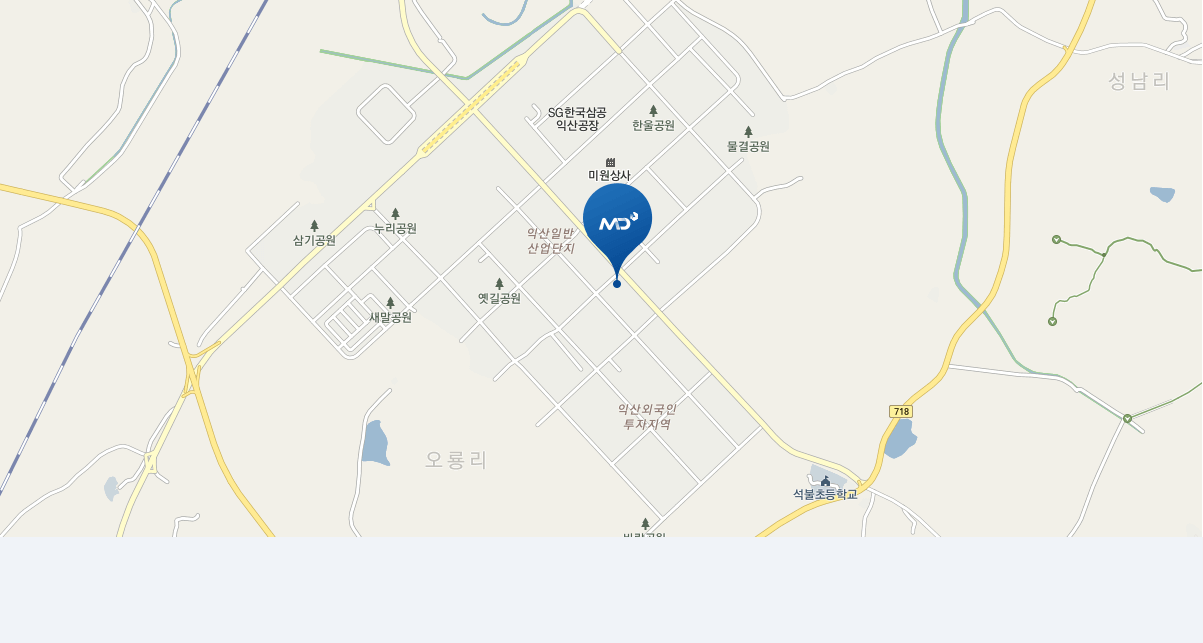
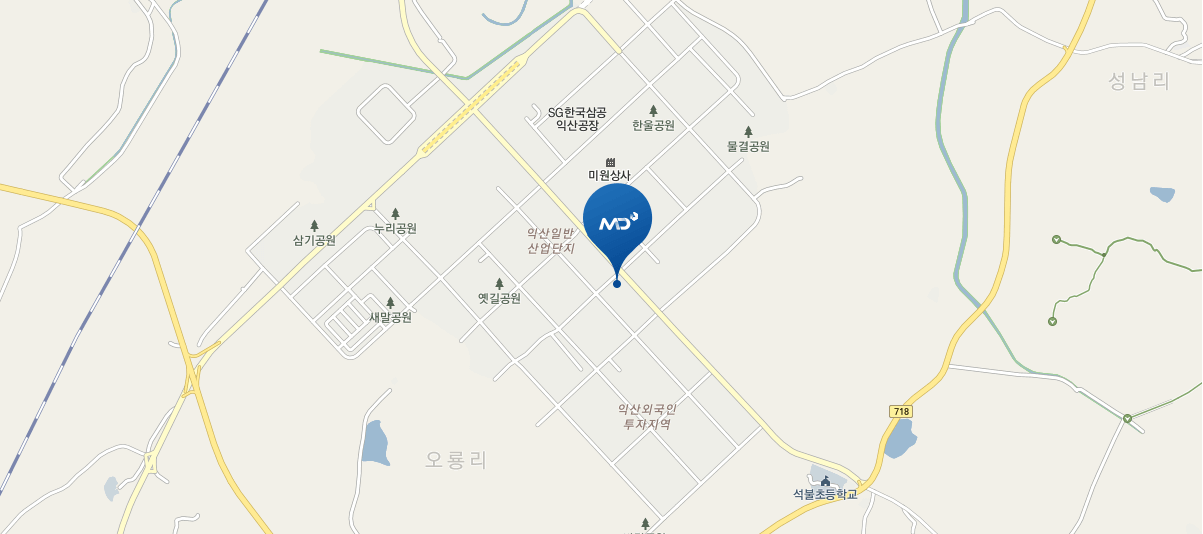
Sina: final update #3

diff --git a/Location.html b/Location.html
@@ -71,22 +71,19 @@
           <div class="col-12">
             <!-- HQ Tab -->
             <div class="tabController" id="tab1">
-              <div class="col-12 map-section--map">
-                <div class="mapouter"><div class="gmap_canvas">
-                  <!--<iframe width="100%" height="450" id="gmap_canvas2" src="https://www.google.com/maps/embed?pb=!1m18!1m12!1m3!1d6468.167730832458!2d127.1692497276739!3d35.84694706726395!2m3!1f0!2f0!3f0!3m2!1i1024!2i768!4f13.1!3m3!1m2!1s0x3570225484e63a03%3A0x83ebc082671e7064!2sWonsanjeong-gil%2C%20Sanjeong-dong%2C%20Deokjin-gu%2C%20Jeonju%2C%20Jeollabuk-do%2C%20South%20Korea!5e0!3m2!1sen!2sil!4v1604753686030!5m2!1sen!2sil" frameborder="0" scrolling="no" marginheight="0" marginwidth="0"></iframe>-->
-                  <img src="img/hqMap.png" width="100%">
+              <div class="col-12 map-section--map" style="margin-bottom: 0; padding-bottom: 0;">
+                <div class="mapouter" style="margin-bottom: 0; padding-bottom: 0;">
+                  <div class="gmap_canvas" style="margin-bottom: 0; padding-bottom: 0;">
+                    <img src="img/hqMap.png" style="width: 100%;">
                 </div>
                 </div>
               </div>
-              <div class="col-12 map-section--bmbar">
-                <div class="row" style="margin: 0;">
-                  <div class="col-12 col-md-8">
-                    <h4 class="d-none d-md-block" style="font-size: 16px;">
-                      <span class="multi-lang-class" lang-id="['location']['adr_title']"></span>
-                      &nbsp;&nbsp;
-                      <h3 style="font-size: 15px;">
-                        <span style="font-size: 15px;font-weight: 400;color: #000;" class="multi-lang-class" lang-id="['location']['hq_adr']"></span>
-                      </h3>
+              <div class="col-12 map-section--bmbar" style="margin-top: -10px; padding-top: 0;">
+                <div class="row pding" style="margin: 0;">
+                  <div class="col-12 col-md-8 mb-3 mb-md-0">
+                    <h4 style="font-size: 16px;">
+                      <span class="multi-lang-class" style="margin-right: 10px;" lang-id="['location']['adr_title']"></span>
+                      <span style="font-size: 15px;font-weight: 400;color: #000;" class="multi-lang-class" lang-id="['location']['hq_adr']"></span>
                     </h4>
                   </div>
                   <div class="col-12 col-md-4">
@@ -123,14 +120,30 @@
                   </div>
                 </div>
               </div>
-              <div class="col-12 map-section--bmbar">
-                <div>
-                  <h4 class="multi-lang-class" style="font-size: 16px;" lang-id="['location']['adr_title']">위치</h4>
-                  <h3 class="multi-lang-class" style="font-size: 15px;" lang-id="['location']['adr']"></h3>
-                  <h3>
-                    <span class="multi-lang-class" style="text-transform: capitalize;font-size: 16px;" lang-id="['footer']['tel']"></span> <label style="font-size: 15px;">070-4870-3955</label>
-                    <span class="multi-lang-class" style="text-transform: capitalize;font-size: 16px;" lang-id="['footer']['fax']"></span> <label style="font-size: 15px;">070-8270-3955</label>
-                  </h3>
+              <div class="col-12 map-section--bmbar" style="margin-top: -10px; padding-top: 0;">
+                <div class="row pding" style="margin: 0;">
+                  <div class="col-12 col-md-8 mb-3 mb-md-0">
+                    <h4 style="font-size: 16px;">
+                      <span class="multi-lang-class" style="margin-right: 10px;" lang-id="['location']['adr_title']"></span>
+                      <span style="font-size: 15px;font-weight: 400;color: #000;" class="multi-lang-class" lang-id="['location']['adr']"></span>
+                    </h4>
+                  </div>
+                  <div class="col-12 col-md-4">
+                    <div class="row">
+                      <div class="col-12 col-md-6">
+                        <h3>
+                          <span class="multi-lang-class" style="text-transform: capitalize;font-size: 16px;" lang-id="['footer']['tel']"></span>
+                          <label style="font-size: 15px;">070-4870-3955</label>
+                        </h3>
+                      </div>
+                      <div class="col-12 col-md-6">
+                        <h3>
+                          <span class="multi-lang-class" style="text-transform: capitalize;font-size: 16px;" lang-id="['footer']['fax']"></span>
+                          <label style="font-size: 15px;">070-8270-3955</label>
+                        </h3>
+                      </div>
+                    </div>
+                  </div>
                 </div>
               </div>
             </div>
@@ -163,6 +176,9 @@
               }else{
                   $('#factoryImg > img').attr('src','img/factoryImgEN.png');
               }
+
+              $('.navm-company').addClass('active');
+              $('.navm-location').addClass('active');
 
               bodyElement.find('.multi-lang-class').each(function (index, currentElement) {
                   const id = $(this).attr('lang-id');

diff --git a/menu.html b/menu.html
@@ -8,29 +8,29 @@
             </div>
             <div class="ul-section d-none d-lg-block d-xl-block col-7 col-lg-8 col-xl-7">
                 <ul id="mainMenu">
-                    <li><a id="companyNavId" data-islink="false" style="cursor:pointer;margin-right: 30px;" class="multi-lang-class " lang-id="['menu']['menu_1']['company']"></a>
+                    <li><a id="companyNavId" data-islink="false" style="cursor:pointer;margin-right: 30px;" class="navm-company multi-lang-class " lang-id="['menu']['menu_1']['company']"></a>
                         <div class="menu-dropdown">
                             <div class="dropdown-ul-strip">
                                 <ul id="companyUL">
-                                    <li><a href="CEO.html?lang=" class="multi-lang-class" lang-id="['menu']['menu_1']['sub_1']"></a></li>
-                                    <li><a href="History.html?lang=" class="multi-lang-class" lang-id="['menu']['menu_1']['sub_2']"></a></li>
-                                    <li><a href="OrganizationChart.html?lang=" class="multi-lang-class" lang-id="['menu']['menu_1']['sub_3']"></a></li>
-                                    <li><a href="Location.html?lang=" class="multi-lang-class" lang-id="['menu']['menu_1']['sub_4']"></a></li>
+                                    <li><a href="CEO.html?lang=" class="navm-ceo multi-lang-class" lang-id="['menu']['menu_1']['sub_1']"></a></li>
+                                    <li><a href="History.html?lang=" class="navm-history multi-lang-class" lang-id="['menu']['menu_1']['sub_2']"></a></li>
+                                    <li><a href="OrganizationChart.html?lang=" class="navm-oc multi-lang-class" lang-id="['menu']['menu_1']['sub_3']"></a></li>
+                                    <li><a href="Location.html?lang=" class="navm-location multi-lang-class" lang-id="['menu']['menu_1']['sub_4']"></a></li>
                                 </ul>
                                 <ul id="productsUL" class="menuForceLeftRight" >
-                                    <li><a href="business.html?lang=" class="multi-lang-class" lang-id="['menu']['menu_2']['sub_1']"></a></li>
-                                    <li><a href="stablizer.html?lang=" class="multi-lang-class" lang-id="['menu']['menu_2']['sub_2']"></a></li>
-                                    <li><a href="usbtype.html?lang=" class="multi-lang-class" lang-id="['menu']['menu_2']['sub_3']"></a></li>
-                                    <li><a href="arvr.html?lang=" class="multi-lang-class" lang-id="['menu']['menu_2']['sub_4']"></a></li>
-                                    <li><a href="smartfarm.html?lang=" class="multi-lang-class" lang-id="['menu']['menu_2']['sub_5']"></a></li>
-                                    <li><a href="MilitaryTrainingEducation.html?lang=" class="multi-lang-class" lang-id="['menu']['menu_2']['sub_6']"></a></li>
+                                    <li><a href="business.html?lang=" class="navm-motion multi-lang-class" lang-id="['menu']['menu_2']['sub_1']"></a></li>
+                                    <li><a href="stablizer.html?lang=" class="navm-stb multi-lang-class" lang-id="['menu']['menu_2']['sub_2']"></a></li>
+                                    <li><a href="usbtype.html?lang=" class="navm-usb multi-lang-class" lang-id="['menu']['menu_2']['sub_3']"></a></li>
+                                    <li><a href="arvr.html?lang=" class="navm-arvr multi-lang-class" lang-id="['menu']['menu_2']['sub_4']"></a></li>
+                                    <li><a href="smartfarm.html?lang=" class="navm-farm multi-lang-class" lang-id="['menu']['menu_2']['sub_5']"></a></li>
+                                    <li><a href="MilitaryTrainingEducation.html?lang=" class="navm-mili multi-lang-class" lang-id="['menu']['menu_2']['sub_6']"></a></li>
                                 </ul>
                             </div>
                         </div>
                     </li>
-                    <li><a id="productsNavId" style="margin-right: 30px;" href="business.html?lang=" class="multi-lang-class" lang-id="['menu']['menu_2']['products']"></a></li>
-                    <li><a style="margin-right: 30px;" href="testEvaluation.html?lang=" class="multi-lang-class" lang-id="['menu']['menu_3']['test']"></a></li>
-                    <li><a style="margin-right: 30px;" href="promotion.html?lang=" class="multi-lang-class" lang-id="['menu']['menu_4']['promotion']"></a></li>
+                    <li><a id="productsNavId" style="margin-right: 30px;" href="business.html?lang=" class="navm-pro multi-lang-class" lang-id="['menu']['menu_2']['products']"></a></li>
+                    <li><a style="margin-right: 30px;" href="testEvaluation.html?lang=" class="navm-test multi-lang-class" lang-id="['menu']['menu_3']['test']"></a></li>
+                    <li><a style="margin-right: 30px;" href="promotion.html?lang=" class="navm-promo multi-lang-class" lang-id="['menu']['menu_4']['promotion']"></a></li>
                 </ul>
             </div>
             <div class="button-section d-none d-lg-block d-xl-block col-3 col-lg-2 col-xl-3">

diff --git a/css/style.css b/css/style.css
@@ -249,6 +249,10 @@ body {
   border-bottom: #ee5253 solid 4px;
 }
 
+#header .menu-section .ul-section ul#mainMenu > li > a.active {
+  border-bottom: #ee5253 solid 4px;
+}
+
 .border-red-undermenuitem
 {
   transition: 300ms all ease;
@@ -292,6 +296,9 @@ body {
   font-size: 15px;
   color: #222222;
   letter-spacing: -0.5px;
+}
+.ul-section .menu-dropdown ul li a.active {
+  color: #ee5253;
 }
 .ul-section .menu-dropdown ul li a:hover {
   color: #ee5253;
@@ -946,17 +953,18 @@ body {
 .middle-subcontent .map-section .map-section--map {
   margin-top: 50px;
 }
-.middle-subcontent .map-section .map-section--bmbar div {
+.middle-subcontent .map-section .map-section--bmbar div.pding {
   background: #f0f3f8;
+  padding: 20px;
 }
 .middle-subcontent .map-section .map-section--bmbar div h4 {
   font-weight: 700;
   color: #1b69b2;
   font-size: 18px;
-  float: left;
+  /*float: left;*/
 }
 .middle-subcontent .map-section .map-section--bmbar div h3 {
-  float: left;
+  /*float: left;*/
 }
 .middle-subcontent .map-section .map-section--bmbar div h3 span {
   color: #1b69b2;

diff --git a/css/customStyle.css b/css/customStyle.css
@@ -165,14 +165,11 @@
 {
     position:relative;
     text-align:right;
-    height:450px;
-    width:100%;
 }
 .gmap_canvas
 {
     overflow:hidden;
     background:none!important;
-    height:450px;
     width:100%;
 }
 
@@ -377,22 +374,19 @@
     .middle-subcontent .map-section .map-section--map {
         margin-top: 15px;
     }
-    .middle-subcontent .map-section .map-section--bmbar div {
-        display: flex;
-        align-items: center;
-        width: 100%;
-        height: auto;
+    .middle-subcontent .map-section .map-section--bmbar div.pding {
         background: #f0f3f8;
+        padding: 20px;
     }
 
 
     .mapouter
     {
-        height:auto;
+
     }
     .gmap_canvas
     {
-        height:auto;
+
     }
 
 

diff --git a/arvr.html b/arvr.html
@@ -118,6 +118,9 @@
                     $(this).attr('href', href + _currentLang);
                 });
 
+                $('.navm-pro').addClass('active');
+                $('.navm-arvr').addClass('active');
+
                 bodyElement.find('.multi-lang-class').each(function (index, currentElement) {
                     const id = $(this).attr('lang-id');
                     if(id != null){

diff --git a/History.html b/History.html
@@ -95,6 +95,9 @@
 
                 convertAllFooterLink();
 
+                $('.navm-company').addClass('active');
+                $('.navm-history').addClass('active');
+
                 bodyElement.find('.multi-lang-class').each(function (index, currentElement) {
                     const id = $(this).attr('lang-id');
                     if(id != null){

diff --git a/OrganizationChart.html b/OrganizationChart.html
@@ -196,6 +196,9 @@
 
                 convertAllFooterLink();
 
+                $('.navm-company').addClass('active');
+                $('.navm-oc').addClass('active');
+
                 bodyElement.find('.multi-lang-class').each(function (index, currentElement) {
                     const id = $(this).attr('lang-id');
                     if(id != null){

diff --git a/CEO.html b/CEO.html
@@ -64,6 +64,9 @@
 
                 convertAllFooterLink();
 
+                $('.navm-company').addClass('active');
+                $('.navm-ceo').addClass('active');
+
                 bodyElement.find('.multi-lang-class').each(function (index, currentElement) {
                     const id = $(this).attr('lang-id');
                     if(id != null){

diff --git a/business.html b/business.html
@@ -273,6 +273,9 @@
                     $('#imgMotPlat').attr('src','img/Picture4.jpg');
                 }
 
+                $('.navm-pro').addClass('active');
+                $('.navm-motion').addClass('active');
+
                 convertAllFooterLink();
 
                 bodyElement.find('.multi-lang-class').each(function (index, currentElement) {

diff --git a/stablizer.html b/stablizer.html
@@ -128,6 +128,9 @@
                     $(this).attr('href', href + _currentLang);
                 });
 
+                $('.navm-pro').addClass('active');
+                $('.navm-stb').addClass('active');
+
                 convertAllFooterLink();
 
                 bodyElement.find('.multi-lang-class').each(function (index, currentElement) {

diff --git a/usbtype.html b/usbtype.html
@@ -129,6 +129,9 @@
                     $(this).attr('href', href + _currentLang);
                 });
 
+                $('.navm-pro').addClass('active');
+                $('.navm-usb').addClass('active');
+
                 convertAllFooterLink();
 
                 bodyElement.find('.multi-lang-class').each(function (index, currentElement) {

diff --git a/MilitaryTrainingEducation.html b/MilitaryTrainingEducation.html
@@ -109,6 +109,9 @@
                 $(this).attr('href', href + _currentLang);
             });
 
+            $('.navm-pro').addClass('active');
+            $('.navm-mili').addClass('active');
+
             convertAllFooterLink();
 
             bodyElement.find('.multi-lang-class').each(function (index, currentElement) {
